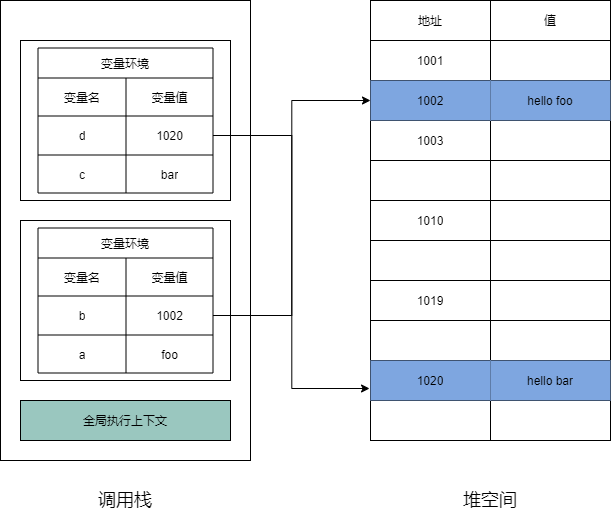
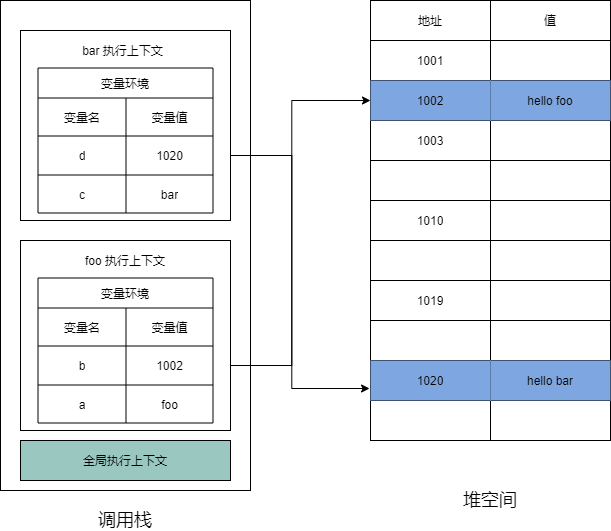
feat: 更新v8垃圾回收机制简易

diff --git a/docs/guide/js_subject/V8引擎的垃圾回收机制-简易.md b/docs/guide/js_subject/V8引擎的垃圾回收机制-简易.md
@@ -29,6 +29,14 @@ foo()
 
 ![v8_collection1](../../assets/js_subject/v8_collection1.png)
 
+与此同时，还有一个记录当前执行状态的指针（称为 ESP），指向调用栈中 bar 函数的执行上下文，表示当前正在执行 bar 函数。
+
+接着，当 bar 函数执行完成之后，函数执行流程就进入了 foo 函数，那这时就需要销毁 bar 函数的执行上下文了。ESP 这时候就帮上忙了，JavaScript 会将 ESP 下移到 foo 函数的执行上下文，这个下移操作就是销毁 bar 函数执行上下文的过程。
+
+所以说，当一个函数执行结束之后，JavaScript 引擎会通过向下移动 ESP 来销毁该函数保存在栈中的执行上下文。
+
+## 堆的数据回收
+
 
 ## 结语
 
